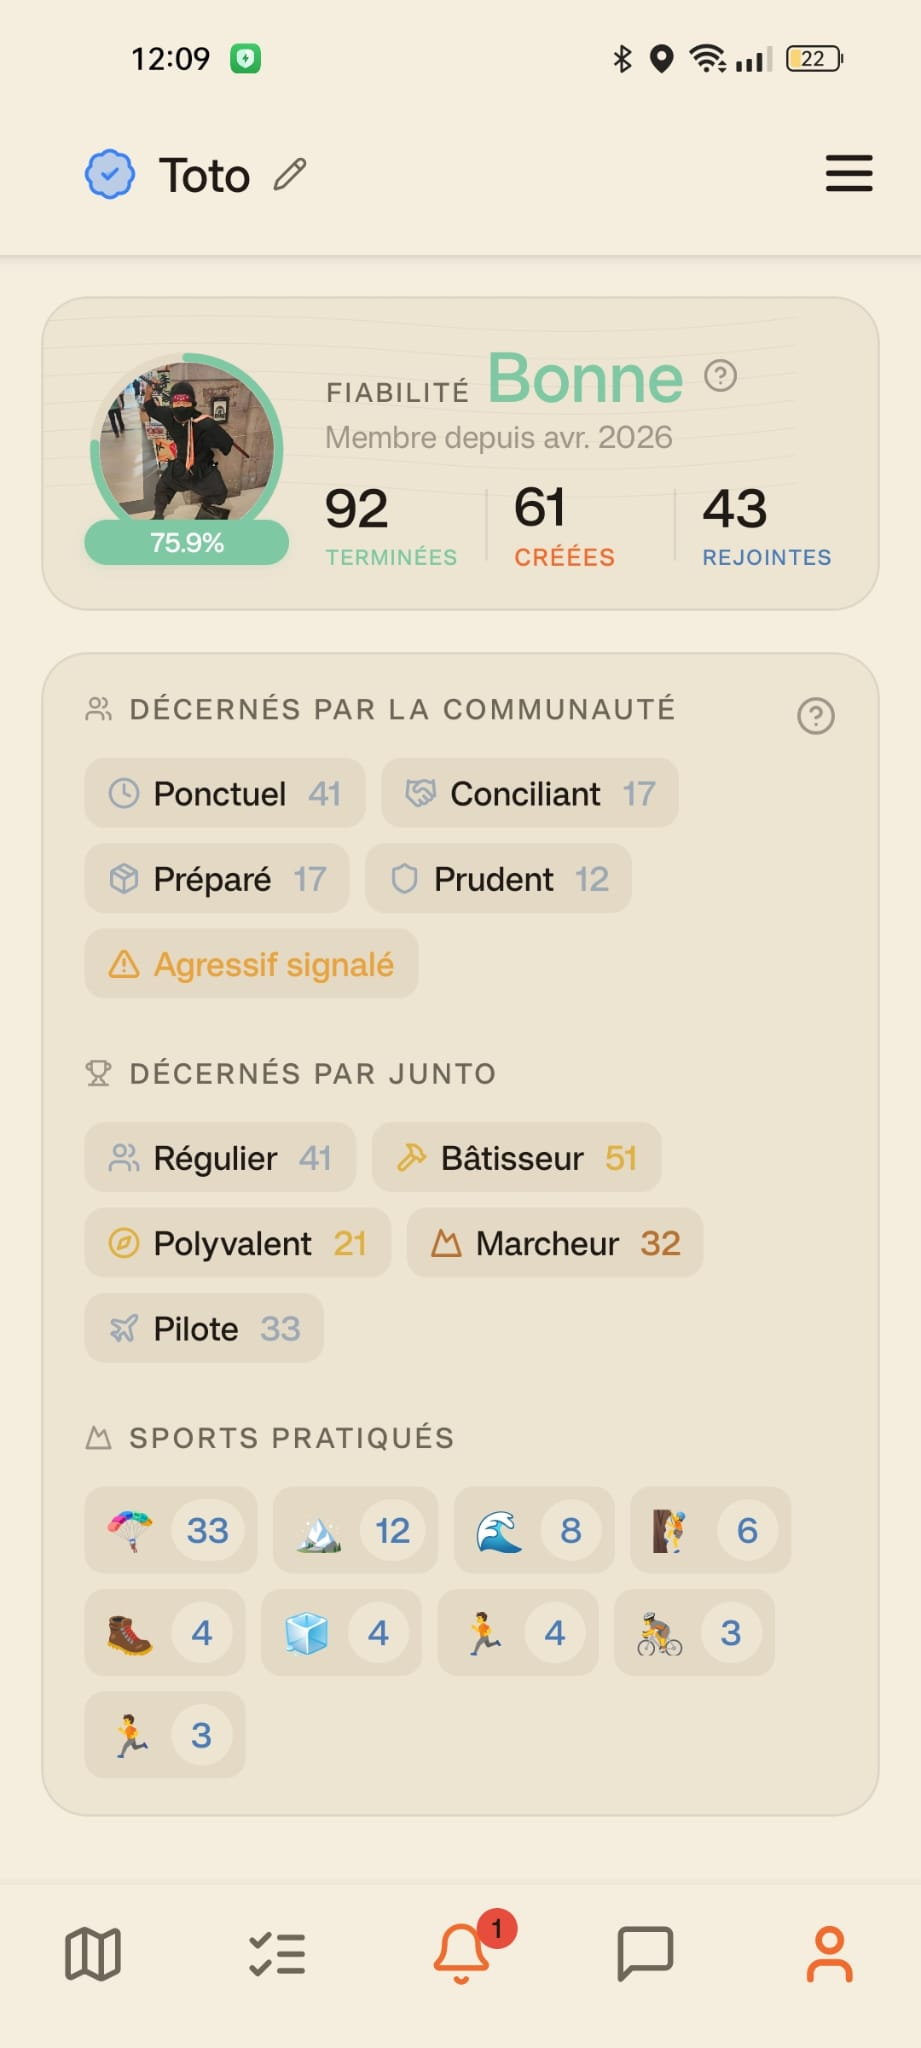
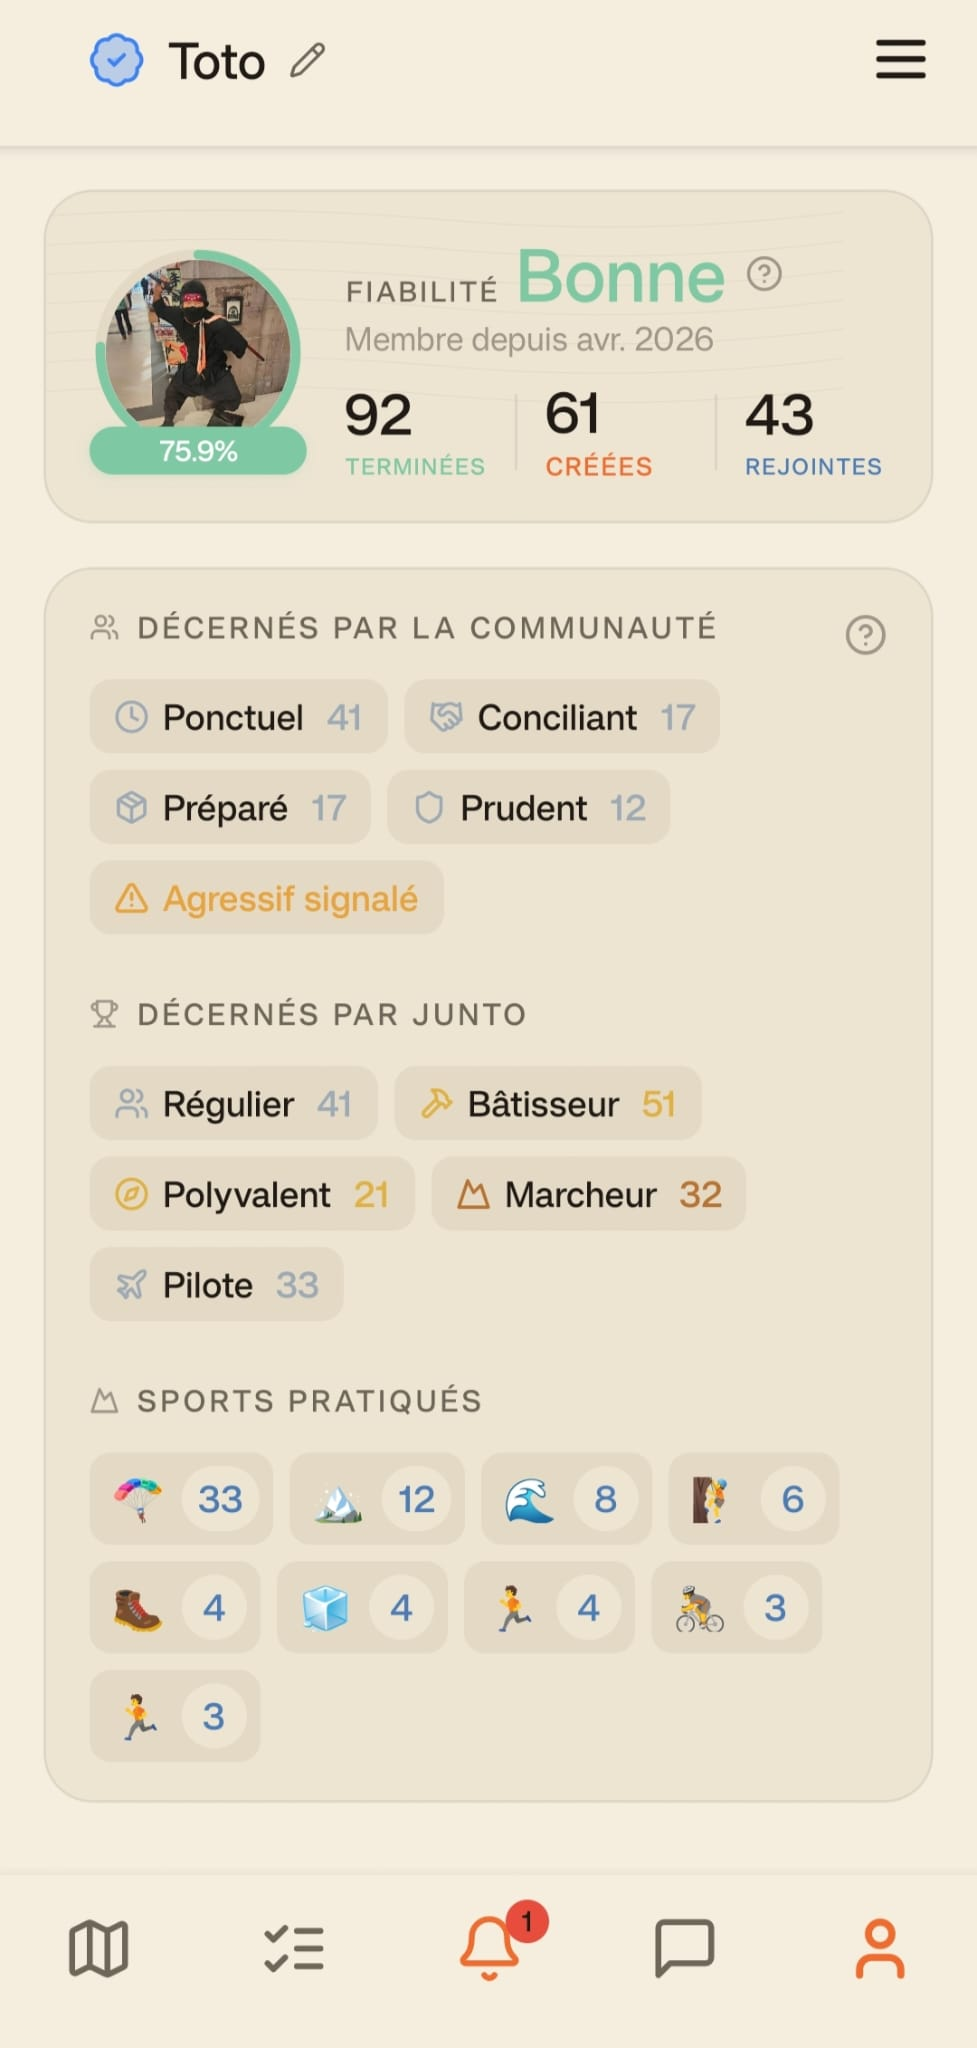
refine(web): new profile shot + sharper captions (02,03,05,07)
Profile screenshot swapped for the cleaner crop. Captions: 02 'toutes les infos', 03 'en deux clics', 05 names the WhatsApp-group pain, 07 frames reliability as knowing who you're heading out with.

diff --git a/web/app/components/screenshots.tsx b/web/app/components/screenshots.tsx
@@ -10,13 +10,13 @@ const SCREENS = [
   {
     src: '/screenshots/2-activity.jpeg',
     title: "L'activité",
-    desc: "Niveau, places, départ — clair avant de t'engager.",
+    desc: "Niveau, places, départ — toutes les infos pour t'engager.",
     alt: "Détail d'une activité",
   },
   {
     src: '/screenshots/3-transport.jpeg',
     title: 'Le transport',
-    desc: "Qui conduit, qui monte. Le covoiturage s'organise seul.",
+    desc: "Qui conduit, qui monte. Le covoiturage s'organise en deux clics.",
     alt: 'Covoiturage et préparatifs de transport',
   },
   {
@@ -28,7 +28,7 @@ const SCREENS = [
   {
     src: '/screenshots/5-chat.jpeg',
     title: 'La discussion',
-    desc: 'Un fil par sortie pour caler les derniers détails.',
+    desc: 'Un fil par sortie. Fini les groupes WhatsApp interminables.',
     alt: "Chat de l'activité",
   },
   {
@@ -40,7 +40,7 @@ const SCREENS = [
   {
     src: '/screenshots/7-profile.jpeg',
     title: 'Le profil',
-    desc: 'Ta fiabilité et tes badges, gagnés sur le terrain.',
+    desc: "Fiabilité et badges : tu sais à qui tu as affaire, même entre inconnus.",
     alt: 'Profil, fiabilité et badges',
   },
 ];
